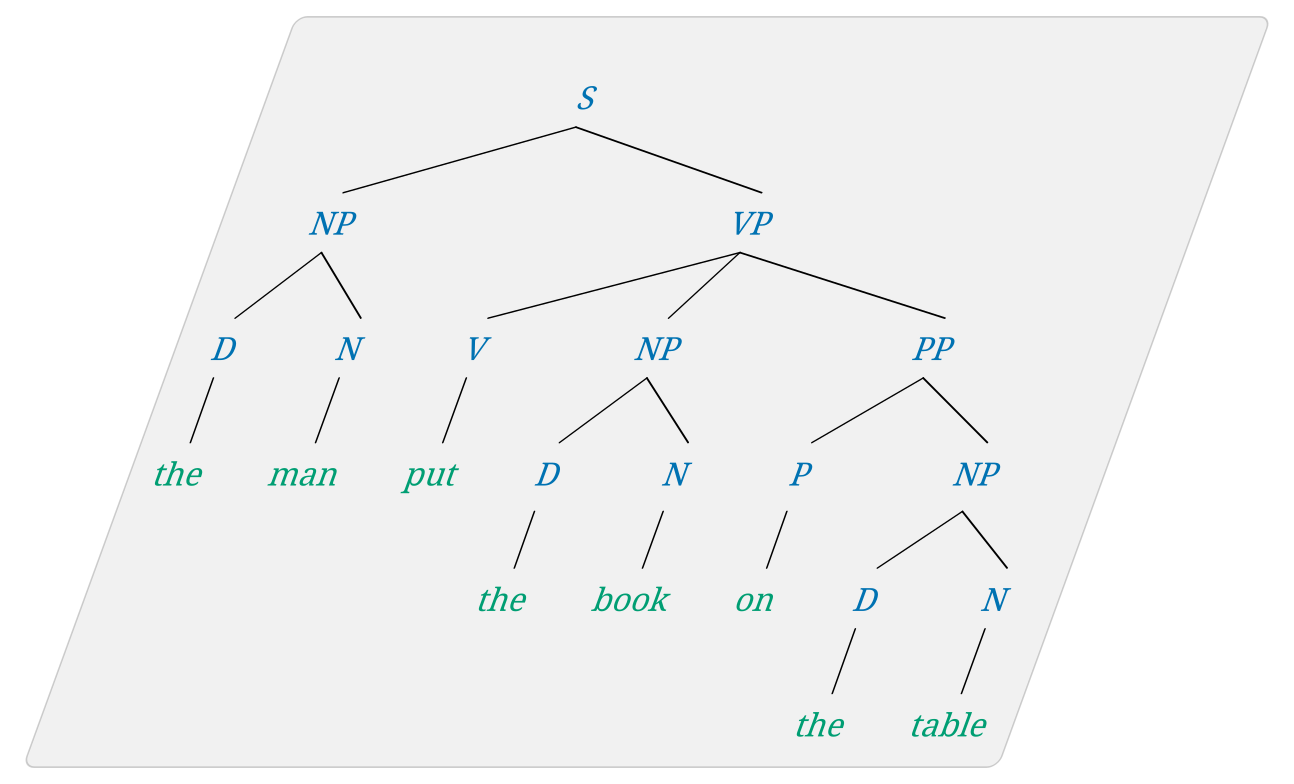
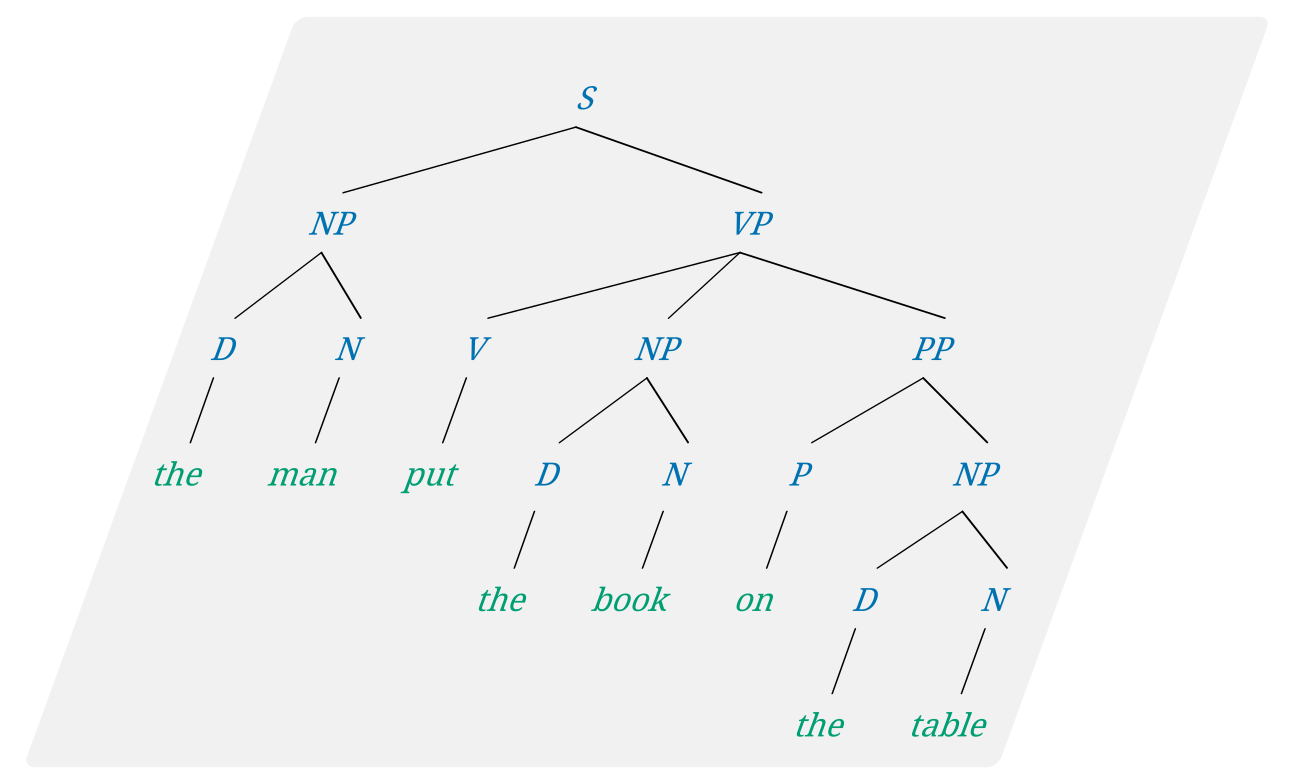
Let the plane be a surface, not a panel
Two things gave the plane an air of being an object in the figure rather
than the ground under it.

It had an edge. A region shade is bounded because bounding is its whole
point — it marks one part of a figure off from the rest — but the plane is
under all of it, and a line drawn round an entire figure reads as a frame
put there on purpose. Fill alone now.

And it was drawn on a transparent background, where it is precisely the
wrong thing. A clear background is asked for in order to set the figure
over something else; an opaque sheet underneath is the one addition that
would defeat that. Turning the background off now turns the plane off with
it, which is what someone asking for either of them meant by it.

diff --git a/lib/rsyntaxtree/svg_graph.rb b/lib/rsyntaxtree/svg_graph.rb
@@ -28,7 +28,6 @@ module RSyntaxTree
     # region marks part of a figure out from the rest, and the plane is
     # behind all of it — at the region's own opacity the whole page darkens.
     SHEAR_PLANE_FILL_OPACITY = 0.12
-    SHEAR_PLANE_STROKE_OPACITY = 0.4
 
     attr_accessor :width, :height
 
@@ -204,16 +203,21 @@ module RSyntaxTree
         # and the rails all live inside the group, so an affine map carries
         # every incidence with it — nothing can newly touch or cross. The
         # background stays outside, painted to the sheared canvas.
+        # No plane on a transparent background: what a clear background is
+        # for is laying the figure over something else, and an opaque sheet
+        # under it is the one thing that would defeat that.
         plane = +""
-        unless @shear_plane == "off"
+        if @shear_plane != "off" && !@transparent
           color = @shear_plane == "on" ? REGION_DEFAULT_COLOR : @shear_plane
           radius = @global[:height_connector_to_text] / 2.0
+          # Fill alone, no edge. A region shade is bounded because it marks
+          # one part of a figure off from the rest; the plane is under all of
+          # it, and a line around the whole drawing reads as a frame.
           plane = "<rect x=\"#{@plane_rect[:x]}\" y=\"#{@plane_rect[:y]}\" " \
                   "width=\"#{@plane_rect[:w]}\" height=\"#{@plane_rect[:h]}\" " \
                   "rx=\"#{radius}\" ry=\"#{radius}\" " \
                   "fill=\"#{color}\" fill-opacity=\"#{SHEAR_PLANE_FILL_OPACITY}\" " \
-                  "stroke=\"#{color}\" stroke-opacity=\"#{SHEAR_PLANE_STROKE_OPACITY}\" " \
-                  "stroke-width=\"#{@global[:stroke_normal]}\" />\n"
+                  "stroke=\"none\" />\n"
         end
         body = "<g transform=\"matrix(1,0,#{@shear_k},1,0,0)\">\n" +
                plane + shades + @tree_data + extra_lines + "</g>\n"

diff --git a/test/shear_test.rb b/test/shear_test.rb
@@ -93,6 +93,25 @@ class ShearTest < Minitest::Test
     refute_includes svg(TREE), "fill-opacity=\"0.12\"", "a plane with no shear"
   end
 
+  # A clear background is asked for in order to lay the figure over something
+  # else, and an opaque sheet under the figure is the one thing that would
+  # defeat that. The plane goes when the background does.
+  def test_a_clear_background_takes_the_plane_with_it
+    refute plane_rect(svg(TREE, shear: "20", transparent: "on")),
+           "the plane stayed on a transparent background"
+    assert plane_rect(svg(TREE, shear: "20", transparent: "off"))
+  end
+
+  # Fill alone. A region shade is bounded because it marks one part of a
+  # figure off from the rest; the plane is under all of it, and an edge round
+  # the whole drawing reads as a frame.
+  def test_the_plane_has_no_outline
+    out = svg(TREE, shear: "20")
+    plane = out[/<rect x="[-\d.]+" y="[-\d.]+"[^>]*fill-opacity="0.12"[^>]*\/>/]
+    refute_nil plane
+    assert_includes plane, 'stroke="none"'
+  end
+
   def test_the_plane_takes_a_colour_and_refuses_a_non_colour
     assert_includes svg(TREE, shear: "20", shear_plane: "lightblue"), "fill=\"lightblue\""
     assert_includes svg(TREE, shear: "20", shear_plane: "#8e4585"), "fill=\"#8e4585\""

diff --git a/docs/documentation.md b/docs/documentation.md
@@ -96,7 +96,7 @@ cannot outlive the feature it names.
 - `%NP`, `%@blue:NP` — a region shade behind the whole subtree → [Region Shade](#region-shade)
 - `@red:NP`, `@#3af:NP` — colour, by name or 3/6 hex digits → [Per-Node Styling](#per-node-styling-color)
 
-**Options** — each is a select in the [web interface](https://yohasebe.com/rsyntaxtree) and a flag on the command line: `format` (png, svg, pdf, ...), `fontstyle` and `fontsize`, `color`, `linewidth`, `leafstyle` (what joins a node to its leaf), `direction` (ttb, ltr, btt), `mirror` for RTL scripts, `tidy` and `hspacing` and `vheight` for the packing and the spacing, `polyline` for right-angled connectors, `hide_default_connectors` for figures whose links are all drawn by hand, `transparent` for a clear background, `derivation` for categorial-style figures, `hyphen` (whether a hyphen is markup or a character), and `shear` with `shear_plane`, which tilt the finished figure — the whole drawing leans by the given angle (degrees, positive leaning the top to the right) and lies on a plane drawn behind it, so the lean reads as a surface seen at an angle rather than as a mistake. `shear_plane` turns that plane off or gives it a colour. `vmargin` sets the clearance between a label and its connectors — the same above and below, measured from the type the row actually contains. Each option is described in the section it concerns.
+**Options** — each is a select in the [web interface](https://yohasebe.com/rsyntaxtree) and a flag on the command line: `format` (png, svg, pdf, ...), `fontstyle` and `fontsize`, `color`, `linewidth`, `leafstyle` (what joins a node to its leaf), `direction` (ttb, ltr, btt), `mirror` for RTL scripts, `tidy` and `hspacing` and `vheight` for the packing and the spacing, `polyline` for right-angled connectors, `hide_default_connectors` for figures whose links are all drawn by hand, `transparent` for a clear background, `derivation` for categorial-style figures, `hyphen` (whether a hyphen is markup or a character), and `shear` with `shear_plane`, which tilt the finished figure — the whole drawing leans by the given angle (degrees, positive leaning the top to the right) and lies on a plane drawn behind it, so the lean reads as a surface seen at an angle rather than as a mistake. `shear_plane` turns that plane off or gives it a colour, and a transparent background takes it away for you. `vmargin` sets the clearance between a label and its connectors — the same above and below, measured from the type the row actually contains. Each option is described in the section it concerns.
 
 ### Tree Direction
 
@@ -505,7 +505,9 @@ You can specify a custom color for individual nodes using the `@color:` prefix. 
 to the right — and `Shear plane` draws the plane it lies on. The plane is what
 makes the tilt read as a surface seen at an angle rather than as a drawing
 gone wrong; turn it off, or give it a colour, when the figure says the same
-thing without it.
+thing without it. A transparent background takes the plane with it: a clear
+background is asked for in order to lay the figure over something else, and a
+sheet under it is what would defeat that.
 
 The whole picture leans as one piece. The layout is computed exactly as it is
 for an upright tree, and the plane, the shades, the tree and its rails are

diff --git a/CHANGELOG.md b/CHANGELOG.md
@@ -66,7 +66,12 @@ looking at what was left. Every figure in the gallery draws exactly as it did.
   lean reads as a surface seen at an angle rather than as a mistake. The
   whole picture shears as one affine piece — layout untouched, region
   shades coming out parallelograms on their own, and nothing able to newly
-  touch or cross. `shear_plane` turns the plane off or gives it a colour.
+  touch or cross. The plane is fill without an edge — a region shade is
+  bounded because it marks one part of a figure off from the rest, and a
+  line round the whole drawing would read as a frame. `shear_plane` turns
+  it off or gives it a colour, and a transparent background takes it away
+  for you: a clear background is asked for in order to lay the figure over
+  something else, and a sheet under it is what would defeat that.
   TikZ refuses a sheared figure the way it refuses a derivation.
 - `vmargin`: the clearance between a label and its connectors, the same
   above and below, measured from the ink its row actually contains — a row

diff --git a/docs/changelog.md b/docs/changelog.md
@@ -76,7 +76,12 @@ looking at what was left. Every figure in the gallery draws exactly as it did.
   lean reads as a surface seen at an angle rather than as a mistake. The
   whole picture shears as one affine piece — layout untouched, region
   shades coming out parallelograms on their own, and nothing able to newly
-  touch or cross. `shear_plane` turns the plane off or gives it a colour.
+  touch or cross. The plane is fill without an edge — a region shade is
+  bounded because it marks one part of a figure off from the rest, and a
+  line round the whole drawing would read as a frame. `shear_plane` turns
+  it off or gives it a colour, and a transparent background takes it away
+  for you: a clear background is asked for in order to lay the figure over
+  something else, and a sheet under it is what would defeat that.
   TikZ refuses a sheared figure the way it refuses a derivation.
 - `vmargin`: the clearance between a label and its connectors, the same
   above and below, measured from the ink its row actually contains — a row

diff --git a/lib/rsyntaxtree/notation_core.md b/lib/rsyntaxtree/notation_core.md
@@ -104,7 +104,7 @@ Options (the command line spells them --like-this):
 | derivation | one rule across the daughters, categorial-grammar style |
 | hyphen     | markup (hyphens underline) or literal (hyphens are hyphens) |
 | shear      | tilt the drawn figure: degrees, −45 to 45, positive leans the top right |
-| shear_plane | the plane behind a sheared figure: on (grey), off, or a colour |
+| shear_plane | the plane behind a sheared figure: on (grey), off, or a colour; never drawn on a transparent background |
 | vmargin    | clearance between a label and its connectors, 0.1–1.0, the same above and below |
 
 hspacing and vheight are named for the top-to-bottom layout, and follow the
